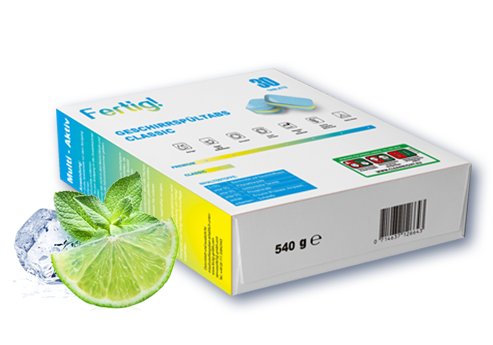
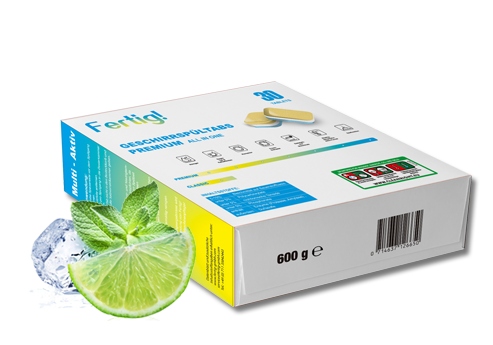
更新了产品的德语数据

Changed region(s): [[0.0304, 0.1739, 1.0, 0.9275], [0.5477, 0.6667, 0.6694, 0.7826]]

diff --git a/src/Containers/ProductModal/index.jsx b/src/Containers/ProductModal/index.jsx
@@ -19,23 +19,141 @@ import Close from "@material-ui/icons/Close";
 import landingPageStyle from "../../assets/jss/material-kit-react/views/landingPage";
 
 import iconReiniger from "assets/img/icons/reiniger.png";
+import iconTee from "assets/img/icons/tee.png";
+import iconKlar from "assets/img/icons/klar.png";
+import iconPower from "assets/img/icons/power.png";
+import iconEdel from "assets/img/icons/edel.png";
+import iconTemp from "assets/img/icons/temp.png";
+import iconSalz from "assets/img/icons/salz.png";
+
+import imgIntro11 from "assets/img/productModal/imgIntro11.png";
+import imgPara11 from "assets/img/productModal/imgPara11.png";
+import imgUsage11 from "assets/img/productModal/imgUsage11.png";
+
 import imgIntro12 from "assets/img/productModal/imgIntro12.png";
 import imgPara12 from "assets/img/productModal/imgPara12.png";
 import imgUsage12 from "assets/img/productModal/imgUsage12.png";
 
+import imgIntro21 from "assets/img/productModal/imgIntro21.png";
+
+import imgIntro22 from "assets/img/productModal/imgIntro22.png";
+
 const products = [
     {
-        uid: 12,
+        uid: 11,
         introduction: {
             name: "FERTIG Classic Tabs",
             features: [
                 {
                     name: "Reiniger",
                     iconRef: iconReiniger
-                }
+                },
+            ],
+            img: imgIntro11,
+            description: "Fertig Classic sorgt für ein brillantes Reinigungsergebnis. Für ein perfektes Spülergebnis sind zusätzlich Fertig Spezial-Salz und Fertig Klarspüler zu dosieren. Gemäß der gesetzlichen Bestimmungen ist unser Fertig phosphatfrei."
+        },
+        parameters: {
+            img: imgPara11,
+            productName: "Fertig Classic Tab",
+            pack: {
+                "weight": "540g",
+                "count": "30 Tabs"
+            },
+            origin: "Deutschland",
+            validity: "3 Jahre",
+            mixture: [
+                {
+                    name: "Bleichmittel auf Sauerstoffbasis"
+                },
+                {
+                    name: "Polycarboxylate"
+                },
+                {
+                    name: "nichtionische Tenside"
+                },
+                {
+                    name: "Polycarboxylate"
+                },
+            ]
+        },
+        usage: {
+            img: imgUsage11,
+            steps: [
+                {
+                    step: 1,
+                    description: "Grobe Speisereste vor dem Spülgang entfernen"
+                },
+                {
+                    step: 2,
+                    description: "Schutzfolie entfernen"
+                },
+                {
+                    step: 3,
+                    description: "1 Tab pro Spülgang in die Dosierkammer geben."
+                },
+                {
+                    step: 4,
+                    description: "Tab nicht in den Besteckkorb und nicht in die Salzvorratskammergeben."
+                },
+            ]
+        },
+        attentions: {
+            img: "",
+            contents: [
+                {
+                    content: "Tabs werden für Kurz- und Niedrigtemperaturprogramme nicht empfohlen, da sie sich in während der kurzen Spülzeit eventuell nicht vollständig auflösen können"
+                },
+                {
+                    content: "Vorspülen ist nicht notwendig"
+                },
+                {
+                    content: "Geschirr so einräumen, dass alle Fläschen von den Wasserstrahlen getroffen werden"
+                },
+                {
+                    content: "Sprüharme müssen frei rotieren können"
+                },
+                {
+                    content: "Spülmaschine regelmäßig reinigen"
+                },
+            ]
+        }
+    },
+    {
+        uid: 12,
+        introduction: {
+            name: "FERTIG Premium Tabs",
+            features: [
+                {
+                    name: "Reiniger",
+                    iconRef: iconReiniger
+                },
+                {
+                    name: "Gegen Tee & Kaffeeflecken",
+                    iconRef: iconTee
+                },
+                {
+                    name: "Klarspüler",
+                    iconRef: iconKlar
+                },
+                {
+                    name: "Power-Entruster",
+                    iconRef: iconPower
+                },
+                {
+                    name: "Edelstahl- und Glassschutz",
+                    iconRef: iconEdel
+                },
+                {
+                    name: "Niedrigtemperatur-Aktiv-Formel",
+                    iconRef: iconTemp
+                },
+                {
+                    name: "Salzfunktion",
+                    iconRef: iconSalz
+                },
             ],
             img: imgIntro12,
-            description: "Fertig Classic sorgt für ein brillantes Reinigungsergebnis. Für ein perfektes Spülergebnis sind zusätzlich Somat Spezial-Salz und Somat Klarspüler zu dosieren. Gemäß der gesetzlichen Bestimmungen ist unser Somat phosphatfrei."
+            description: "Fertig Classic sorgt für ein brillantes Reinigungsergebnis. Für ein perfektes Spülergebnis sind zusätzlich Fertig Spezial-Salz und Fertig Klarspüler zu dosieren. Gemäß der gesetzlichen Bestimmungen ist unser Fertig phosphatfrei."
         },
         parameters: {
             img: imgPara12,
@@ -86,8 +204,72 @@ const products = [
             img: "",
             contents: [
                 {
-                    content: "Tabs werden für Kurz- und Niedrigtemperaturprogramme nicht empfohlen, da sie sich in während der kurzen Spülzeit eventuell nicht vollständig auflösen können"
+                    content: "Vorspülen ist nicht notwendig"
                 },
+                {
+                    content: "Geschirr so einräumen, dass alle Fläschen von den Wasserstrahlen getroffen werden"
+                },
+                {
+                    content: "Sprüharme müssen frei rotieren können"
+                },
+                {
+                    content: "Spülmaschine regelmäßig reinigen"
+                },
+            ]
+        }
+    },
+    {
+        uid: 21,
+        introduction: {
+            name: "FERTIG Classic Pulver 1.0kg",
+            features: [
+                {
+                    name: "Reiniger",
+                    iconRef: iconReiniger
+                },
+            ],
+            img: imgIntro21,
+            description: "Fertig Classic Pulver entfernt selbst hartnäckige Flecken und Beläge bei jedem Spülgang – für gründliche Sauberkeit und strahlenden Glanz."
+        },
+        parameters: {
+            img: "",
+            productName: "Fertig Classic Pulver 1.0kg",
+            pack: {
+                "weight": "1000g",
+            },
+            origin: "Deutschland",
+            validity: "3 Jahre",
+            mixture: [
+                {
+                    name: "Bleichmittel auf Sauerstoffbasis"
+                },
+                {
+                    name: "Polycarboxylate"
+                },
+                {
+                    name: "nichtionische Tenside"
+                },
+                {
+                    name: "Polycarboxylate"
+                },
+            ]
+        },
+        usage: {
+            img: "",
+            steps: [
+                {
+                    step: 1,
+                    description: "Dosierung bei normaler Verschmutzung: 20 ml"
+                },
+                {
+                    step: 2,
+                    description: "bei starker Verschmutzung: 30 ml"
+                },
+            ]
+        },
+        attentions: {
+            img: "",
+            contents: [
                 {
                     content: "Vorspülen ist nicht notwendig"
                 },
@@ -102,7 +284,74 @@ const products = [
                 },
             ]
         }
-    }
+    },
+    {
+        uid: 22,
+        introduction: {
+            name: "FERTIG Classic Pulver 1.8kg",
+            features: [
+                {
+                    name: "Reiniger",
+                    iconRef: iconReiniger
+                },
+            ],
+            img: imgIntro22,
+            description: "Fertig Classic Pulver entfernt selbst hartnäckige Flecken und Beläge bei jedem Spülgang – für gründliche Sauberkeit und strahlenden Glanz."
+        },
+        parameters: {
+            img: "",
+            productName: "Fertig Classic Pulver 1.8kg",
+            pack: {
+                "weight": "1800g",
+            },
+            origin: "Deutschland",
+            validity: "3 Jahre",
+            mixture: [
+                {
+                    name: "Bleichmittel auf Sauerstoffbasis"
+                },
+                {
+                    name: "Polycarboxylate"
+                },
+                {
+                    name: "nichtionische Tenside"
+                },
+                {
+                    name: "Polycarboxylate"
+                },
+            ]
+        },
+        usage: {
+            img: "",
+            steps: [
+                {
+                    step: 1,
+                    description: "Dosierung bei normaler Verschmutzung: 20 ml"
+                },
+                {
+                    step: 2,
+                    description: "bei starker Verschmutzung: 30 ml"
+                },
+            ]
+        },
+        attentions: {
+            img: "",
+            contents: [
+                {
+                    content: "Vorspülen ist nicht notwendig"
+                },
+                {
+                    content: "Geschirr so einräumen, dass alle Fläschen von den Wasserstrahlen getroffen werden"
+                },
+                {
+                    content: "Sprüharme müssen frei rotieren können"
+                },
+                {
+                    content: "Spülmaschine regelmäßig reinigen"
+                },
+            ]
+        }
+    },
 ];
 
 function Transition(props) {

diff --git a/src/Containers/Product/index.jsx b/src/Containers/Product/index.jsx
@@ -47,9 +47,11 @@ class Product extends React.Component {
                             <GridItem xs={12} sm={12} md={6} className={classes.featureWrapper}>
                                 {this.renderFeatures(features)}
                             </GridItem>
+                            {img &&
                             <GridItem xs={12} sm={12} md={6}>
                                 <img src={img} alt="img" className={classes.image}/>
                             </GridItem>
+                            }
                         </GridContainer>
                     </GridItem>
                     <GridItem xs={12} className={classes.itemWrapper}>
@@ -90,9 +92,11 @@ class Product extends React.Component {
                             <GridItem xs={12} sm={12} md={6}>
                                 <h2 className={classes.title}>{t('product.parameters.information')}</h2>
                             </GridItem>
+                            {img &&
                             <GridItem xs={12} sm={12} md={6}>
                                 <img src={img} alt="img" className={classes.image}/>
                             </GridItem>
+                            }
                         </GridContainer>
                     </GridItem>
                     <GridItem xs={12} className={classes.itemWrapper}>
@@ -101,7 +105,8 @@ class Product extends React.Component {
                                       className={classes.tableCell}>{t('product.parameters.productName')}</GridItem>
                             <GridItem xs={4} className={classes.tableCell}>{productName}</GridItem>
                             <GridItem xs={2} className={classes.tableCell}>{t('product.parameters.pack')}</GridItem>
-                            <GridItem xs={4} className={classes.tableCell}>{`${pack.weight}(${pack.count})`}</GridItem>
+                            <GridItem xs={4}
+                                      className={classes.tableCell}>{`${pack.weight}${pack.count ? (pack.count) : ''}`}</GridItem>
                             <GridItem xs={2} className={classes.tableCell}>{t('product.parameters.origin')}</GridItem>
                             <GridItem xs={4} className={classes.tableCell}>{origin}</GridItem>
                             <GridItem xs={2} className={classes.tableCell}>{t('product.parameters.validity')}</GridItem>
@@ -151,12 +156,14 @@ class Product extends React.Component {
                     </GridItem>
                     <GridItem xs={12} className={classes.itemWrapper}>
                         <GridContainer className={classes.usageContentWrapper}>
-                            <GridItem xs={12} sm={12} md={5} className={classes.usageContent}>
+                            <GridItem xs={12} sm={12} md={6} className={classes.usageContent}>
                                 {this.renderSteps(steps)}
                             </GridItem>
-                            <GridItem xs={12} sm={12} md={7}>
+                            {img &&
+                            <GridItem xs={12} sm={12} md={6}>
                                 <img src={img} alt="img" className={classes.image}/>
                             </GridItem>
+                            }
                         </GridContainer>
                     </GridItem>
                 </GridContainer>

diff --git a/src/Containers/Product/style.jsx b/src/Containers/Product/style.jsx
@@ -57,7 +57,6 @@ const productStyle = {
     featureWrapper: {
         display: 'flex',
         flexDirection: 'column',
-        alignItems: 'center'
     },
     title: {
         fontWeight: 500,
